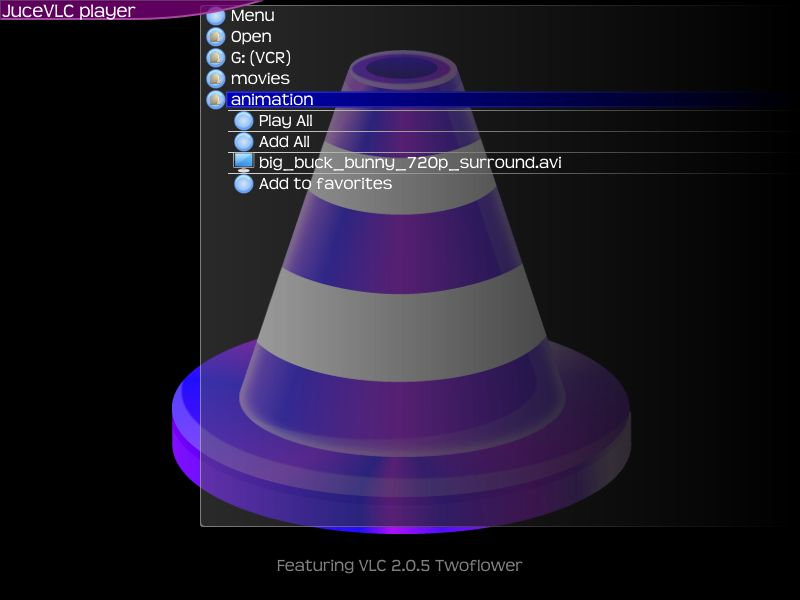
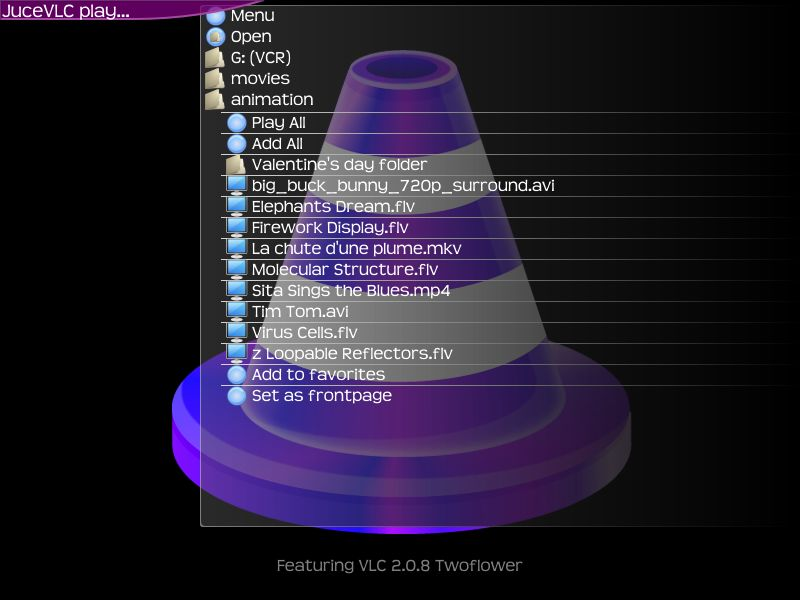
Doc/Web update for release 0.8

Changed region(s): [[0.25, 0.06, 0.9062, 0.69], [0.125, 0.0, 0.1875, 0.03]]

diff --git a/web/site.html b/web/site.html
@@ -39,6 +39,7 @@
 				<h3>Features</h3>
 					<p><ul>
 						<li>Browse local or remote (via UPNP) files and adjust settings using <strong>On Screen Display</strong> (O.S.D.)</li>
+						<li>Frontpage movies menu with automatically downloaded posters (from <a href="http://www.omdbapi.com/">omdbapi.com</a>) or generated thumbnails (no setup required)</li>
 						<li><strong>Big, customizable fonts size</strong> and no tiny popup dialogs</li>
 						<li><strong>Subtitles</strong> selection and synchronization using slider via O.S.D.</li>
 						<li>Search,Download,Extract and Load subtitles from <a href="opensubtitles.org">opensubtitles.org</a></li>
@@ -55,6 +56,13 @@
 		
 			<a id="news"></a><a href="#news" class="link-style1">News</a><br>
 			<ul class="list-style1">
+				<li class="first">
+					<h3>0.80 (2013/09/24):</h3>
+					<ul>
+						<li class="first">New frontpage movie browser with posters or thumbnails (thanks to <b><u>Mark Pietras</u></b> for the motivation/inspiration)</li>
+						<li class="first">libVLC 2.0.8</li>
+					</ul>
+				</li>
 				<li class="first">
 					<h3>0.71 (2013/07/24):</h3>
 					<ul>
@@ -165,7 +173,9 @@
 				</li>
 			</ul>
 			<a id="screenshots"></a><a href="#screenshots" class="link-style1">Screenshots</a>
-				<h4 align="left">Browse files</h4>
+				<h4 align="left">Frontpage movies posters/thumbnails</h4>
+				<img src="screenshots/frontpage.jpg">
+				<h4 align="left">Filesystem browser</h4>
 				<img src="screenshots/open.jpg">
 				<h4 align="left">On Screen Display</h4>
 				<img src="screenshots/playing.jpg">
